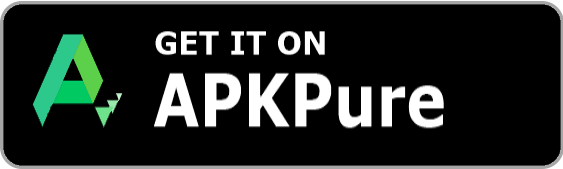
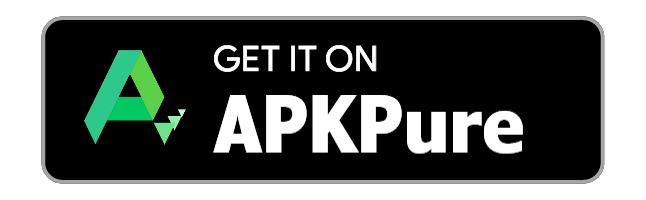
Updated android readme

diff --git a/Android.md b/Android.md
@@ -11,27 +11,55 @@ Download the Android Studio IDE from https://developer.android.com/studio/. For 
 # How to Run
 Note that the app name denoted [app_name] in this document is the repository name following the period. (for Android.BlackC4t, the app_name is BlackC4t)
 
-## Method 1 - Clone/ Download the GitHub repository
+## Build From Source
 1. Download or clone this GitHub repository
 2. (If downloaded) Extract the zip archive
 3. In Android Studio click File > Open and then navigate to the project file (Android studio defaults to the directory of the last opened file)
 
-## Method 2 - Download the APK 
+## Get it on Google Play 
+1. Open the Google Play app
+2. Search for [app_name] 
+### Or
+[<img src="readme-assets/google-play-download.png"
+      alt="Get it on Google Play"   height="80">](https://play.google.com/store/apps/)
+
+Follow the link to the listing on apkpure.com by clicking on the badge above, then download/ install
+
+## Download the APK 
 1. Navigate to the [app_name]-APKs directory
 2. Select the debug or release APK depending on your preference. Note that the filenames are in the form: app-[debug/release]-yyyymmdd.apk (I would recommend downloading the most recent release APK)
 ### Or
-
 [<img src="readme-assets/direct-apk-download.png"
-      alt="Direct apk download"   height="80">](https://github.com/[user]/[repository])
+      alt="Direct apk download"   height="80">](/APKs)
 
 Follow the link to the APKs directory by clicking on the badge above, then select the preferred APK
 
-## Method 3 - Get it on APKPure
+## Get it on APKPure
 1. Go to https://m.apkpure.com or open the APKPure app
 2. Search for [app_name] or com.fredhappyface.[app_name]
 ### Or
-
 [<img src="readme-assets/apkpure-download.png"
       alt="Get it on APKPure"   height="80">](https://apkpure.com/[app_name]/[package_name])
 
 Follow the link to the listing on apkpure.com by clicking on the badge above, then download/ install
+
+## Get it on APKMirror
+1. Go to https://www.apkmirror.com
+2. Search for [app_name] 
+### Or
+[<img src="readme-assets/apkmirror-download.png"
+      alt="Get it on APKMirror"   height="80">](https://www.apkmirror.com/)
+
+Follow the link to the listing on apkmirror.com by clicking on the badge above, then download/ install
+
+# Licence 
+MIT License
+Copyright (c) Kieran W
+(See the [LICENSE](/LICENSE.md) for more information.)
+
+# Screenshots
+
+|Screenshots| |
+|:-:|:-:|
+| ![Screenshot 1](readme-assets/screenshot-1.png?raw=true) | ![Screenshot 2](readme-assets/screenshot-2.png?raw=true) |
+| ![Screenshot 3](readme-assets/screenshot-3.png?raw=true) | ![Screenshot 4](readme-assets/screenshot-4.png?raw=true) |
